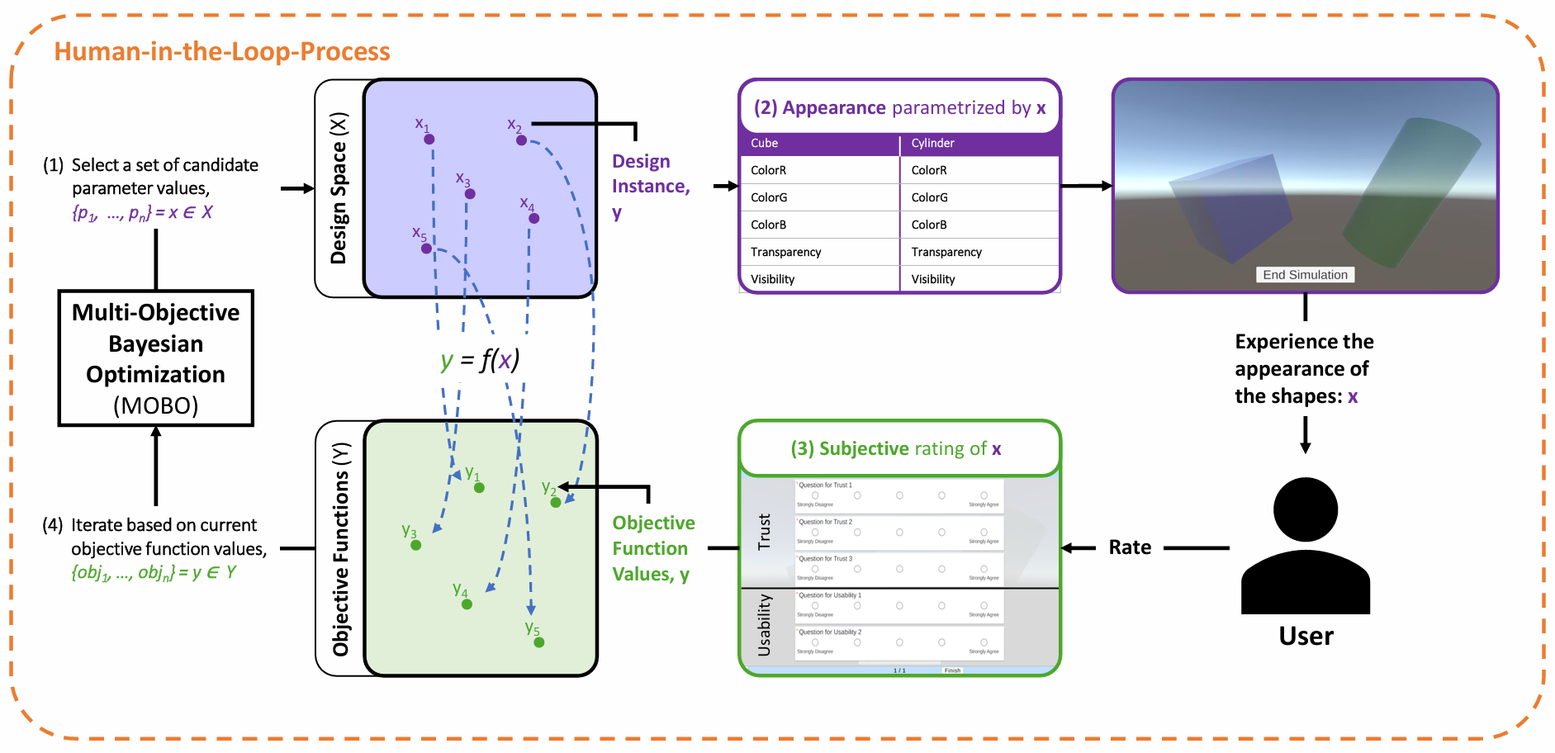
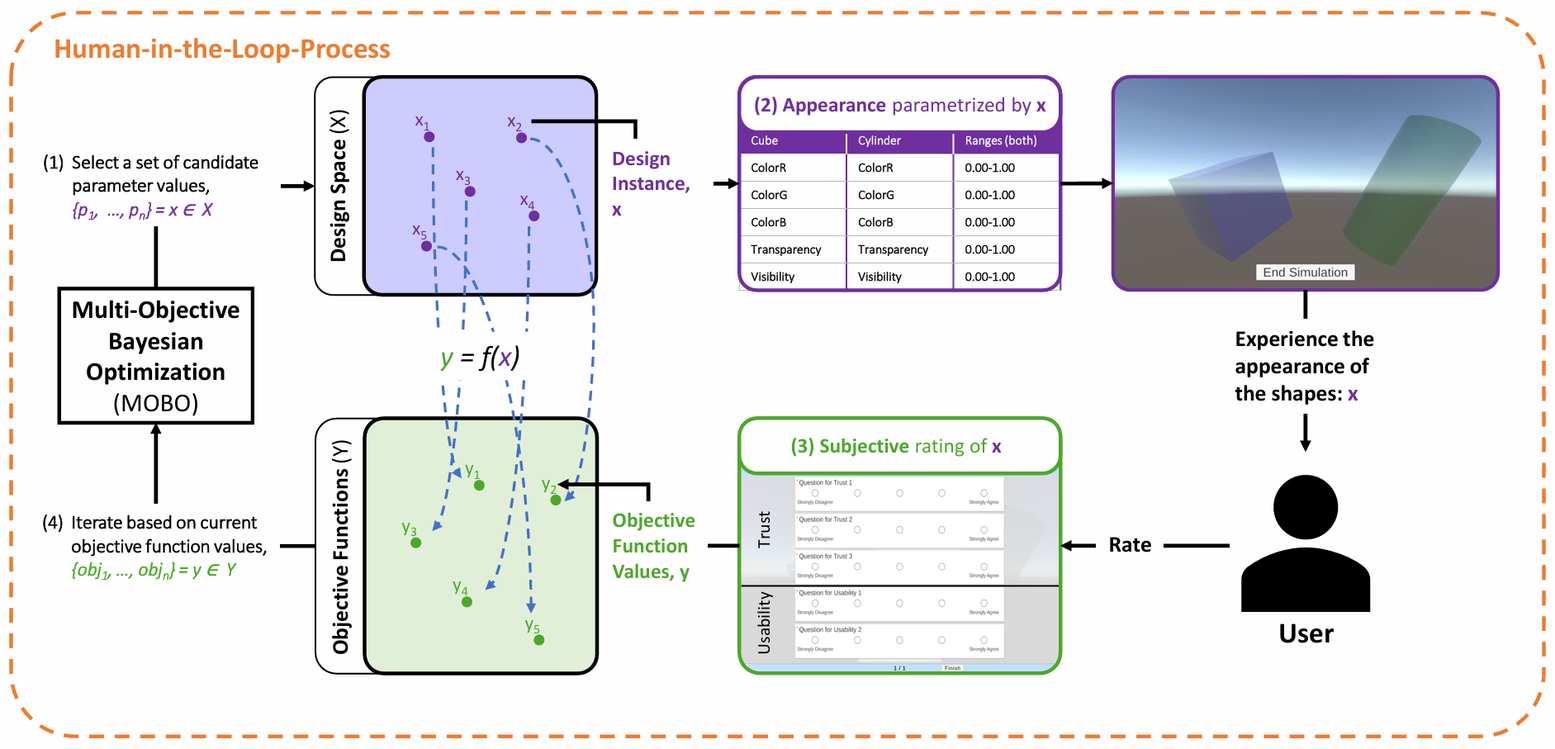
README: update 4

diff --git a/README.md b/README.md
@@ -2,9 +2,9 @@
 
 by [Pascal Jansen](https://scholar.google.de/citations?user=cR1_0-EAAAAJ&hl=en)
 
-## Table of contents
+## Table of Contents
 * [About](#about)
-* [Usage](#usage)
+* [Process](#process)
 * [Versions](#versions)
 * [Installation](#installation)
 * [Example Usage](#example-usage)
@@ -21,225 +21,262 @@ by [Pascal Jansen](https://scholar.google.de/citations?user=cR1_0-EAAAAJ&hl=en)
 
 ## About
 
-This Unity asset integrates Bayesian Optimization (based on [botorch.org](https://botorch.org/)) into your projects, enabling the optimization of design parameters to maximize or minimize objective values. It utilizes a **Human-in-the-Loop** approach, iteratively querying user feedback on designs to refine parameter values.
+This Unity asset integrates Bayesian Optimization (based on [botorch.org](https://botorch.org/)) into your projects, enabling the optimization of design parameters to maximize or minimize objective values. It utilizes a [Human-in-the-Loop](#human-in-the-loop-process) approach, iteratively querying user feedback on designs to refine parameter values.
 
-Key features include:
+#### Key Features
 - Set optimization hyperparameters directly in Unity.
-- Automatic communication between Unity and the Python process running the botorch-based implementation.
+- Automatic communication between Unity and the Python process running the BoTorch-based implementation.
 - The [QuestionnaireToolkit](https://assetstore.unity.com/packages/tools/gui/questionnairetoolkit-157330) for user feedback
 
-## Usage
-
+#### Usage
 
 Example use case:
-- Measure the usability of a design using the System Usability Scale (SUS) and use this data for optimization.
+- Measuring the usability of a design using the System Usability Scale (SUS) and using this data for optimization.
+
+## Process
 
 #### Human-in-the-Loop Process
-In the following picture you can see the Human-in-the-Loop Process (HITL) of this asset.
+The picture below shows the Human-in-the-Loop (HITL) process of this asset.
 This process can be explained step by step:
-1. ..
-2. ..
-3. ..
-4. ..
+1. The optimizer selects the design instance x. This is one set of parameters from the design space (X) which contains all possible sets of parameters. In this example a design instance includes the color (ColorR, ColorG, ColorB), the transparency and the visibility of both shapes (cube & cylinder). The parameters also have a set range to limit the size of the design space (X).
+2. The appearance that has been prametrized by x is now visualized in the simulation. The user then experiences the appearance of the shapes by watching the simulation.
+3. After the simulation the user can subjectively rate the given design instance by filling out the questionnaire. The ratings are then translated into objective function values y. In this example the objectives are trust and usability which also have a range to limit the size of the objective functions (Y).
+4. Based on the current objective function values the [Multi-Objective Bayesian Optimization (MOBO)](#multi-objective-bayesian-optimization-mobo) selects another design instance, taking into account all the values given so far. Then the loop starts again from step 1.
+
+> **Note:** In the initial rounds, the optimizer selects a design instance according to a seed and stores the objective function values to collect more values for later optimization rounds. This means that in these rounds there is no relation between the change of the visual appearance and the rating to expect.
+
+> **Note:** For the implicit approach the questionnaire is replaced by the implicitly collected values.
 
 ![HITL diagramm](./images/HITL.png)
 
-#### Questionnaires for user feedback
-To utilize the Human-in-the-Loop optimization, this asset requires the [QuestionnaireToolkit](https://assetstore.unity.com/packages/tools/gui/questionnairetoolkit-157330) for collecting explicit subjective feedback from users. This feedback serves as the design objective value in the optimization process. 
+#### Questionnaires for User Feedback
+To utilize the Human-in-the-Loop optimization, this asset requires the [QuestionnaireToolkit](https://assetstore.unity.com/packages/tools/gui/questionnairetoolkit-157330) to collect explicit subjective feedback from users. This feedback serves as the design objective value in the optimization process.
+
+#### Multi-Objective Bayesian Optimization (MOBO)
+
+Multi-Objective Bayesian Optimization (MOBO) is an extension of Bayesian optimization designed to optimize multiple conflicting objectives simultaneously. Instead of seeking a single optimum, the goal is to identify a **Pareto front**, which represents the set of solutions that offer the best trade-offs between objectives.
+
+The optimization problem can be represented as:
+
+\[
+\max_{x \in X} f(x),
+\]
+
+where:
+- \( x \) is a vector of parameters within the feasible design space \( X \),
+- \( f(x) \) represents a vector of objective functions, \( f(x) = [f_1(x), f_2(x), \dots, f_k(x)] \), where \( k \) is the number of objectives. In our case this is known as \( y \).
+
+MOBO uses surrogate models (e.g. Gaussian processes) to create a simplified representation of the objective functions. This helps the optimizer predict results for different design instances without having to compute them directly each time. A learning function (e.g., Expected Hypervolume Improvement) then uses this model to decide which points to test next, focusing on improving performance and exploring promising areas in the search space.
+
+This means, the optimizer tries to maximize \( f(x) \) by selecting the expected best-fitting vector of parameters for the next round.
+
+MOBO is widely used in areas such as hyperparameter tuning, material design, and engineering optimization, where multiple objectives must be satisfied simultaneously.
+
 
 <!--#### Limitations-->
 
 
 
 ## Versions
-Currently, there are three example versions of the Bayesian optimization for Unity project. They are separated in branches.
+There are currently three sample versions of the Bayesian Optimization for Unity project. They are separated into branches.
 
 #### Main-Branch
-This version is based on one unity-scene, meaning there is no real change of scenes. The interface is replaced by the next one in the same Unity-scene instead.
+This version is based on one Unity scene, i.e. there are no real scene changes. Instead, the interface is replaced by the next one in the same Unity scene.
 
 #### Multi-Scene-Branch
-This version is based on multiple Unity-scenes. This means, every time you see a new interface, Unity switches to another scene. To make this work, there is a loading scene during the optimization process and the *BOforUnityManager* is marked as *DontDestroyOnLoad*.
+This version is based on multiple Unity scenes. This means that every time you see a new interface, Unity switches to a different scene. To make this work, there is a loading scene during the optimization process and the *BOforUnityManager* is marked as *DontDestroyOnLoad*.
 
 #### HeartRateReceiver-Branch
-This version uses implicit data as objectives in the human-in-the-loop process (for example, live smartwatch data of the proband). This is an implicit variant of the BO for Unity.
+This is an implicit version of the BO for Unity. It uses implicit data as objectives in the human-in-the-loop process (for example, live smartwatch data from the proband).
 
 ## Installation
-This is a step-by-step explanation how you get this asset running on your system.
+This is a step-by-step explanation of how to get the asset up and running on your system.
 1. Clone the repository 
-2. Launch the installation_python.bat (or the install_python.sh for MacOS) to install Python and the library requirements.
+2. Run the installation_python.bat (or the install_python.sh for macOS) to install Python and the library requirements.
 These files are located in *Assets/StreamingAssets/BOData/Installation*
-3. Download Unity Hub
-4. Create or Login to your (student-)licensed Unity-account
+3. Download the Unity Hub
+4. Create or login to your (student-)licensed Unity account
 5. Install Unity 2022.3.21f1
-6. Add the project in the Unity Hub by selecting the repository folder
+6. Add the project to the Unity Hub by selecting the repository folder
 7. Open the project and set the [Python Settings](#python-settings) accordingly
 
-* **Note:** You have to set the python path manually, no matter if you installed it with the installation file or if you have Python already installed locally. How you set the path correctly is explained in the [Python Settings](#python-settings) chapter. Make sure to also read the first section of [Configuration](#configuration) to make sure you safe the python setting correctly.
+> **Note:** You need to set the Python path manually, whether you installed it with the install file or have Python already installed locally. How to set the path correctly is explained in the [Python Settings](#python-settings) chapter. Be sure to also read the first section of [Configuration](#configuration) to make sure you successfully save your Python settings.
 
 ## Example Usage
-In this chapter this Asset is explained by going through the Demo experiment step-by-step once.
-This assusmes that you installed the Asset correctly and set the python path if needed.
-* **Note:** In order to work, the *ObservationPerEvaluation.csv* in *Assets/BOforUnity/BOData/BayesianOptimization/LogData* has to be empty (except of the header row). You can also delete the file completely, which will generate a new clean file in the process.
+This chapter explains this asset by going through the demo experiment step-by-step.
+It is necessary that you have installed the Asset correctly and set the python path in Unity.
+> **Note:** To work, the *ObservationPerEvaluation.csv* in *Assets/BOforUnity/BOData/BayesianOptimization/LogData* must be empty (except for the header row). You can also delete the file completely, which will create a new clean file in the process.
 
-1. Open the folder *Assets/BOforUnity*. Here you click on the *BO-example-scene.unity* and open the scene.
-2. Press the play button in the top middle of the screen
-3. Press the next button in the screen and wait for the system to load. Then press next again.
-4. Now, the simulation is shown. In this case you can see two shapes with colors to evaluate.
-5. If you are done, you can press the `End Simulation` button. Now a questionnaire appears, where you have to evaluate the simulation.
-6. Answer the questions accordingly and press `Finish` if you are done. Now the optimizer will save these inputs and change the simulation parameters.
-7. Press next to start a new iteration. Now the process will start from step `3.` again until the set number of iterations is reached. Then the system tells you, that you can close the application now.
+1. In Unity, open the *Assets/BOforUnity* folder. Double-click on the *BO-example-scene.unity* file to open the scene.
+2. Press the play button (⏵) at the top center of the screen.
+3. Press the `Next` button on the screen and wait for the system to load. Then press next again.
+4. Now the simulation will be shown. In this case, you will see a maximum of two shapes with colors to evaluate.
+5. When you are finished, you can press the `End Simulation` button. A questionnaire will appear asking you to rate the simulation.
+6. Answer the questions accordingly and press `Finish` when you are done. Now the optimizer will save your input and change the simulation parameters.
+7. Press `Next` to start a new iteration. Now the process starts again from step `3.` until the set number of iterations is reached. Then the system tells you that you can now close the application.
 
-* **Note:** The results of the experiment can be seen in *Assets/BOforUnity/BOData/BayesianOptimization/LogData*.
+> **Note:** The results of the experiment can be seen in *Assets/BOforUnity/BOData/BayesianOptimization/LogData*.
 
 ## Demo Video
-You can click on the thumbnail below, to watch a short demo video, that shows the export of the BO-for-Unity-package (Main-branch) and how you import it into a new Unity project. It shows what you have to do after importing, if you have python 3.11.3 locally installed and are using a Windows computer.
+You can click on the thumbnail below to see a short demo video showing how to export the BO-for-Unity package (Main-branch) and import it into a new Unity project. It shows what you need to do after importing if you have Python 3.11.3 installed locally and are using a Windows computer.
 
 [![Watch the video](https://img.youtube.com/vi/J1hrFuiGiRI/0.jpg)](https://www.youtube.com/watch?v=J1hrFuiGiRI)
 
 ## Configuration
-All the configurations, that are neccessary can be made in Unity. To do so, you have to open the folder of the Unity scene which is *Assets/BOforUnity*. Here you click on the *BO-example-scene.unity* and open the scene. After that, select the *BOforUnityManager* Object on the left (blue) and click on *select* in the top of the inspector. Now you can change the settings accordingly. 
+All the necessary configurations can be done in Unity. To do this, open the Unity scene folder which is *Assets/BOforUnity*. Double-click on the *BO-example-scene.unity* file to open the scene. Then select the *BOforUnityManager* object on the left (blue) and click on *Select* in the upper part of the inspector. Now you can change the settings.
 
-Make sure you save the scene after you made your changes! Please recheck if your settings were saved by clicking on the *BOforUnityManager* Object on the left (blue) again and check the changed parameter.
+Be sure to save the scene after you have made your changes! Please check if your settings have been saved by clicking on the *BOforUnityManager* object on the left (blue) again and check the changed parameter. The prefab *BOforUnityManager* must be correct, because it will override the previous settings, as you can see in the inspector on the top left.
 
-* **Note:** In this Object, all the possible configurations can be made. The different possibilities are explained from top to bottom below. SO you can simply follow along by scrolling down in the inspector on the right side of Unity.
+> **Note:** All possible configurations can be made in this object. The different possibilities are explained from top to bottom. You can follow along by scrolling down in the inspector on the right side of Unity.
 
 #### Parameters
-The parameters get optimized by the optimizer. In this configuration section you can create, change or remove such parameters.
+The parameters are optimized by the optimizer. In this configuration section you can create, change or remove such parameters.
 
-##### Create parameter
-Click on the `+`-symbol at the bottom of the parameter collection. A new prefilled parameter appeares which has to be edited accordingly. How it can be edited is explained [here](#change-parameter).
+##### Create Parameter
+Click on the `+` symbol at the bottom of the parameter collection. A new prefilled parameter will appear, which needs to be edited accordingly. How to edit it is explained [here](#change-parameter).
 
-* **Note:** Make sure, the added parameter is used in your simulation.
-* **Note:** It is recommended, to store the previous *ObservationPerEvaluation.csv* from *Assets/BOforUnity/BOData/BayesianOptimization/LogData* somewhere else and delete it in this folder afterwards, to make sure the header is correct. This is also important if you make use of the warm start option!
+> **Note:** Make sure that the added parameter is used in your simulation.
 
-##### Change parameter
-Settable options of each parameter are explained from top to bottom. You can see them in the inspector by clicking on the drop-down arrow of a parameter as shown in the [picture](#parameter_settings) below.
+> **Note:** It is recommended to save the previous *ObservationPerEvaluation.csv* from *Assets/BOforUnity/BOData/BayesianOptimization/LogData* somewhere else and then delete it from this folder to make sure the header is correct.
+
+> **Note:** Changing the header when adding a parameter is also important for the .csv files used by the optimizer when using the [warm start option](#warm-start-settings)!
+
+##### Change Parameter
+The adjustable options of each parameter are explained from top to bottom. You can see them in the inspector by clicking on a parameter's drop-down arrow, as shown in the [image](#parameter_settings) below.
 
 | **Name**              | **Description**                                                                   |
 |-----------------------|-----------------------------------------------------------------------------------|
 | **Value**             | Displays the value assigned to the parameter by the optimizer after optimization. |
-| **Lower/Upper Bound** | Defines the range within which the objective values are constrained.              |
+| **Lower/Upper Bound** | Sets a range to limit the values of the parameter.              |
 | **Is Discrete**       | Indicates if the optimizer generates only discrete values for this parameter.     |
-| **Step**              | Relevant only for discrete parameters; sets the step size (e.g., 1 allows all numbers, 2 allows even numbers, 3 allow every third number, etc.). |
+| **Step**              | Only relevant for discrete parameters; sets the step size (e.g., 1 allows all numbers, 2 allows even numbers, 3 allows every third number, etc.). |
 | **Script Reference**  | Links to the parameter in Unity via the `UpdateParameter` method in the *Optimizer.cs* file. |
 | **Variable Name**     | Identifies the correct parameter in Unity using the `UpdateParameter` method in the *Optimizer.cs* file. |
 | **Game Object Name**  | Specifies the game object associated with the parameter when multiple game objects are optimized. |
 | **Script Name**       | References the Unity script for locating the parameter through the `UpdateParameter` method in *Optimizer.cs*. |
 
-* **Note:** The `UpdateParameter`-method shouldn't be used if possible, because it often happens, that the exact script can't be found even with setting the above parameters. Instead get the needed value through the parameter list in the *BOforUnityManager* by selecting the correct index.
+> **Note:** The `UpdateParameter` method should not be used if possible, because it often happens that the exact script can't be found even when setting the above parameters. Instead, get the needed value from the parameter list in the *BOforUnityManager* by selecting the correct index.
 <a id="parameter_settings"></a>
 
 ![Parameter settings](./images/parameter_settings.png)
 
-##### Remove parameter
-Select the parameter you want to delete, by clicking on the `=`-symbol at the top left corner of the parameter. Make sure it is higlighted blue as shown in the image below. Then click on the `-`-symbol at the bottom of the parameter-collection.
+##### Remove Parameter
+Select the parameter you want to delete by clicking on the `=` icon in the upper left corner of the parameter. Make sure it is highlighted in blue, as shown in the image below. Then click the `-` icon at the bottom of the parameter collection.
+
+> **Note:** Make sure you do the reverse of what you must do when adding a parameter.
 
 ![Remove parameter](./images/remove_parameter.png)
 
 #### Objectives
 The objectives are the inputs that the optimizer receives. In this configuration section you can create, change or remove such objectives.
 
-##### Create objective
-Click on the `+`-symbol at the bottom of the objective collection. A new prefilled objective appeares which has to be edited accordingly. How it can be edited is explained [here](#change-objective).
+##### Create Objective
+Click on the `+` symbol at the bottom of the objective collection. A new prefilled objective will appear, which needs to be edited accordingly. How to edit it is explained [here](#change-objective).
 
-* **Note:** An objective needs to receive a value before the optimization step to make it work. In this demo this can be achieved, by creating a new question in the questionnaire or by changing one question for a different objective to the new objective. How you do this, is explained below.
-* **Note:** It is recommended, to store the previous *ObservationPerEvaluation.csv* in *Assets/BOforUnity/BOData/BayesianOptimization/LogData* and delete it in this folder afterwards, to make sure the header is correct.
+> **Note:** An objective must be given a value before the optimization step to make it work. In this demo, this can be done by creating a new question in the questionnaire or by changing a question for another objective to the new objective. How to do this is explained below.
 
-###### Create question
-In the hierarchy of the *BO-example-scene* go to *QTQuestionnaireManager/QuestionPage-1*. Then on the right you can see *Question Item Creation*. Choose the inputs as needed (the *Header Name* needs tobe the same as the according objective name). After that click on *Create Item* and the question gets added. Now you can edit the question by following the next paragraph.
+> **Note:** It is recommended to save the previous *ObservationPerEvaluation.csv* in *Assets/BOforUnity/BOData/BayesianOptimization/LogData* and then delete it in this folder to make sure that the header is correct.
 
-###### Change existing question
-In the hierarchy of the *BO-example-scene* go to *QTQuestionnaireManager/QuestionPage-1/Scroll View/Viewpoint/Content/* and select the question, you want to change. To make the question count for the new objective the *Header Name* of the question needs to be the same as th eobjective name.
+> **Note:** Changing the header when adding an objective is also important for the .csv files used by the optimizer when using the [warm start option](#warm-start-settings)!
 
-##### Change objective
-Settable options are explained from top to bottom. You can see them in the inpsector by clicking on the drop-down arrow of a objective as shown in the [picture](#objective_settings) below.
+###### Create Question
+In the hierarchy of the *BO-example-scene* go to *QTQuestionnaireManager/QuestionPage-1*. On the right side, you will see *Question Item Creation*. Select the inputs as needed (the *Header Name* must be the same as the corresponding objective name). Then click on *Create Item* and the question will be added. Now you can edit the question by following the next paragraph.
+
+###### Change Existing Question
+In the hierarchy of the *BO-example-scene* go to *QTQuestionnaireManager/QuestionPage-1/Scroll View/Viewpoint/Content/* and select the question you want to change. To make the question count for the new objective, the *Header Name* of the question must be the same as the objective name.
+
+##### Change Objective
+Adjustable options are explained from top to bottom. You can see them in the inspector by clicking on the drop-down arrow of an objective, as shown in the [image](#objective_settings) below.
 
 | **Name**                       | **Description**                                                                                      |
 |--------------------------------|------------------------------------------------------------------------------------------------------|
 | **Number of Sub Measures**     | Specifies how many values exist for this object (e.g., the number of questions). Must be at least 1. |
 | **Values**                     | Displays the values after the questionnaire is completed.                                            |
-| **Lower/Upper Bound**          | Sets a range to constrain the values of the objective.                                               |
+| **Lower/Upper Bound**          | Sets a range to limit the values of the objective.                                               |
 | **Smaller is Better**          | Indicates whether smaller values are preferable (default is that higher values are better).          |
 <a id="objective_settings"></a>
 
 ![Objective settings](./images/objective_settings.png)
 
-##### Remove objective
-Select the objective you want to delete, by clicking on the `=`-symbol at the top left corner of the objective. Make sure it is higlighted blue as shown in the image below. Then click on the `-`-symbol at the bottom of the objective-collection.
+##### Remove Objective
+Select the objective you want to delete, by clicking on the  `=` icon in the upper left corner of the objective. Make sure it is highlighted in blue as shown in the image below. Then click on the `-` icon at the bottom of the objective collection.
+
+> **Note:** Make sure you do the reverse of what you must do when adding an objective.
 
 ![Remove objective](./images/remove_objective.png)
 
 #### Python Settings
-In this section which is seen in this [image](#py_st_ws_pr_settings) you have to set the path to Python manually. To do so you have to get the local path of **Python 3.11.3** .
-* for Windows you can go into a cmd terminal and type `where python`. This will list all installed Python versions. Now you can copy the path of the correct version.
-* for Linux you can go into the terminal and type `whereis python3.11` or `which python3.11`. Now you can copy the path.
+In the top section shown in this [image] (#py_st_ws_pr_settings) you have to set the path to Python manually. To do this, you need to get the local path of **Python 3.11.3**.
+* For Windows, you can go into a cmd terminal and type `where python`. This will list all installed Python versions. Now you can copy the path to the correct version.
+* For Linux or macOS you can go into a terminal and type `whereis python3.11` or `which python3.11`. Now you can copy the path.
 
-After that you can tick the box in the *Python Settings* section in the *BOforUnityManager* and paste the copied path in the upcoming text field. You do not need to strip anything of the path.
+Then you have to check the box in the *Python Settings* section of the *BOforUnityManager* if it is not checked and replace the default path with the copied path in the text box that appears. You do not need to remove anything from your path.
 
 #### Study Settings
-In the next section of the [image](#py_st_ws_pr_settings) you can set individual study settings. Here you can fill in the ID of the user (User ID), the ID of the current condition you are running the experiment on (Condition ID), as well as the ID of the current group (Group ID). This ensures sortable results.
+In the next section of the [image](#py_st_ws_pr_settings) you can set individual study settings. Here you can set the ID of the user (User ID), the ID of the current condition (Condition ID) and the ID of the current group (Group ID). This ensures sortable results.
 
 #### Warm Start & Perfect Rating Settings
-The following explanations refer to the bottom part of this [image](#py_st_ws_pr_settings).
+The following explanations refer to the lower part of this [image](#py_st_ws_pr_settings).
 
-##### Warm Start Setting
-* If you check the box for warm start, the initial rounds are skipped. This means, the optimizer will start to optimize from the first iteration on using the results from a previous study. The results of the previous study must be given as .csv files. They have to match a certain shape, which can be seen in the example data in *Assets/BOforUnity/BOData/BayesianOptimization/InitData*. Additionally the *ObservationsPerEvaluation.csv* of the previous study has to be copied in the LogData of the new study (For the example warm start you can copy the content of the *ExampleObservationsPerEvaluation.csv* located in the *InitData*-folder into the *ObservationsPerEvaluation.csv*).
+##### Warm Start Settings
+* If you check the Warm Start box, the initial rounds will be skipped. This means that from the first iteration on, the optimizer will start optimizing using the results of a previous study. The results of the previous study must be given as .csv files. They must have a certain shape, which can be seen in the example data in *Assets/BOforUnity/BOData/BayesianOptimization/InitData*. In addition, the *ObservationsPerEvaluation.csv* of the previous study must be copied into the LogData of the new study (For the example warm start, you can copy the contents of the *ExampleObservationsPerEvaluation.csv* located in the *InitData* folder into the *ObservationsPerEvaluation.csv*).
 
-* Not checking the box results into the default start. Then the optimizer uses specific parameter-values and collects the objective values without optimizing. after the set amount if inital iterations the optimizer uses all of the collected values to start the optimization process.
-* **Note:** In order to work, the format of the csv-files, which are needed for the warm start MUST be the same as in the example csv-files! Check the header to know what values are needed. This also means, the number of parameters and objectives in the csv-files, provided for the warm start, must match with the number used for the optimization afterwards. This automatically is the case, if you use the log-data of a previous study(with the same settings!) as input-files.
+* Leaving the box unchecked results in the default start. After the specified number of initial iterations (at least 2!), the optimizer uses all the collected values to start the optimization process.
 
-* **Note:** If you go back to default start, make sure the number of init rounds is not **0**!
+> **Note:** To work, the format of the .csv files needed for the warm start **MUST** be the same as in the example csv files! Check the header to see what values are needed. This also means that the number of parameters and targets in the .csv files provided for the warm start must match the number used for the optimization afterward. This is automatically the case if you use the log data of a previous study (with the same settings!) as input files.
 
-##### Perfect Rating Setting
+> **Note:** If you go back to the default start, make sure that the number of init rounds is at least **2**!
 
-* The perfect rating is deactivated by default (unchecked box).
-* The perfect rating is activated by checking the box. This means the check for a perfect rating is performed and the system will terminated if perfect rating is achieved.
-* If *Perfect Rating In Initial Rounds* is checked as well (only appears with active perfect rating) perfect rating can be achieved in the initial rounds (sampling phase) as well.
+##### Perfect Rating Settings
+
+* The perfect rating is disabled by default (unchecked box).
+* Perfect rating is enabled by checking the box. This means that the check for a perfect rating will be performed and the system will terminate if a perfect rating is achieved.
+* If *Perfect Rating In Initial Rounds* is also checked (appears only when perfect rating is active), a perfect rating can also be achieved in the initial rounds (sampling phase).
 <a id="py_st_ws_pr_settings"></a>
 
 ![Python, Study, Warm Start & Perfect Rating Settings](./images/python_study_ws_pr_settings.png)
 
-#### BO-Hyper-parameters 
+#### BO-Hyper-Parameters 
 
-BO-Hyper-Parameters control the behavior of the optimization process, such as the number of iterations, sampling strategies, and evaluation settings. These parameters influence how efficiently and effectively the optimizer searches for the best solution within the defined space. The settable hyper-parameters can be seen in this [image](#BO_hyper_settings)
+BO-Hyper-Parameters control the behavior of the optimization process, such as the number of iterations, sampling strategies, and evaluation settings. These parameters influence how efficiently and effectively the optimizer searches for the best solution within the defined space. The adjustable hyperparameters are shown in this [image](#BO_hyper_settings).
 
 | **Name**       | **Default Value** | **Description**                                                                                   | **More Information**                                                                                                   |
 |-----------------|-------------------|---------------------------------------------------------------------------------------------------|------------------------------------------------------------------------------------------------------------------------|
 | **N Initial**   | 5                 | Number of initial evaluations to gather before optimization begins.                              |                                                                                                                        |
-| **N Iterations**| 10                | Number of iterations the optimizer will run to refine the results.                                |                                                                                                                        |
-| **Total Iterations** | 15           | Sum of `N Initial` and `N Iterations`, representing the total rounds of evaluation.               |                                                                                                                        |
+| **N Iterations**| 10                | Number of iterations the optimizer will perform to refine the results.                                |                                                                                                                        |
+| **Total Iterations** | 15           | Sum of `N Initial` and `N Iterations`, representing the total number of iterations.               |                                                                                                                        |
 | **Batch Size**  | 1                 | Number of evaluations performed in parallel during optimization.                                  | [Batch Size Explanation](https://mljourney.com/how-does-batch-size-affect-training/)                                      |
-| **Num Restarts**| 10                | Number of restarts for optimization to escape local optima and ensure better results.             |                 |
-| **Raw Samples** | 1024              | Number of random samples drawn to initialize the optimization process.                           |                                             |
+| **Num Restarts**| 10                | Number of optimization restarts to escape local optima and ensure better results.             |                 |
+| **Raw Samples** | 1024              | Number of random samples taken to initialize the optimization process.                           |                                             |
 | **MC Samples**  | 512               | Number of Monte Carlo samples used to approximate expected utility in Bayesian optimization.      | [MC Samples Explanation](https://www.sciencedirect.com/topics/mathematics/monte-carlo-simulation)                      |
 | **Seed**        | 3                 | Seed value for random number generation to ensure reproducibility of optimization runs.           | [Seed Explanation](https://en.wikipedia.org/wiki/Random_seed)                                                          |
 
 
-* **Note:** The amount of initial rounds have to be **2 at least!** Use the warm start option instead, if you want to skip the initial rounds.
+> **Note:** The number of initial rounds must be **at least 2!** Use the warm start option instead if you want to skip the initial rounds.
 <a id="BO_hyper_settings"></a>
 
 ![BO Hyperprameter settings](./images/BO_hyperparameter_settings.png)
 
-## Portability to your own Project
-If you want to use this optimization tool in your own project, you can simply export it as a unity package and import it in your project. To do so, follow these steps: 
-1. Make sure, you are in the *Assets* Folder in the Unity project hierarchy. 
-2. Click on *Assets* in the top menu and then click on *Export package*. 
-3. Click on None, to deselect all files.
-4. Select these three folders: *BOforUnity*, *QuestionnaireToolkit*, *StreamingAssets*  
-5. Click on *Export* and save the package. 
+## Portability to Your Own Project
+If you want to use this optimization tool in your own project, you can simply export it as a Unity package and import it into your project. To do this, follow these steps: 
+1. Make sure you are in the *Assets* folder in the Unity project hierarchy. 
+2. Click on `Assets` in the top menu and then on `Export Package`. 
+3. Click `None` to deselect all files.
+4. Select these three folders: *BOforUnity*, *QuestionnaireToolkit*, *StreamingAssets*.  
+5. Click `Export...` and save the package. 
 
-To include it in your project, simply click on *Import package -> Custom package* in the *Assets* menu and choose the saved package. Then keep everything selected and press *Import*.
+To include it in your project, go back to `Assets` in the top menu and click `Import Package` → `Custom Package...`. Select the package you saved. Then keep everything selected and press `Import`.
 
-* **Note:** Make sure, your project path does not have any spaces in it. Otherwise, the python script cannot find the correct paths.
+> **Note:** Make sure that your project path does not contain any spaces. Otherwise, the Python script cannot find the correct paths.
 
-* **Note:** If this is a new project, or you never used *TextMeshPro* in your project a pop-up will appear to install *TextMeshPro-Essentials*. Install this as well, to make the textboxes work. Refresh the scene afterwards, if needed.
+> **Note:** If this is a new project, or you have never used *TextMeshPro* in your project, a pop-up will appear to install *TextMeshPro-Essentials*. Install this as well to make the text boxes work. Refresh the scene afterward to reload the text boxes if necessary.
 
 ## Known Issues
 #### Python Warnings
-During the experiment, it can happen, that the mobo python script throws warnings about the normalization of the input objectives. Unity treats these warnings as Errors. But these warnings can be ignored and wont affect the result of the optimizer as far as we know.
+During the experiment, the MOBO Python script may give warnings about normalizing the input objectives. Unity will treat these warnings as errors. However, these warnings can be ignored and do not affect the result of the optimizer as far as we know.
 
 #### Multi-Scene - Warm-Start
-If warm start is activated in the multi-scene branch, the next-button before the first simulation appears too soon. This is no major issue, you just have to wait until the initialisation of the warm-start data is processed. CLick the button a couple of seconds after its appearance. If it still does not work try again after a few more seconds.
+If warm start is enabled in the multi-scene branch, the `Next` button to get to the first simulation will appear too early. This is not a big problem, you just have to wait for the initialization of the warm start data to be processed. Click the button a few seconds after it appears. If it still does not work, try again after a few more seconds.
 
 ## License
-This project underlies the **MIT License** which can be found in the folder this README is in.
+This project underlies the **MIT License**, which can be found in the folder where this README is located.
